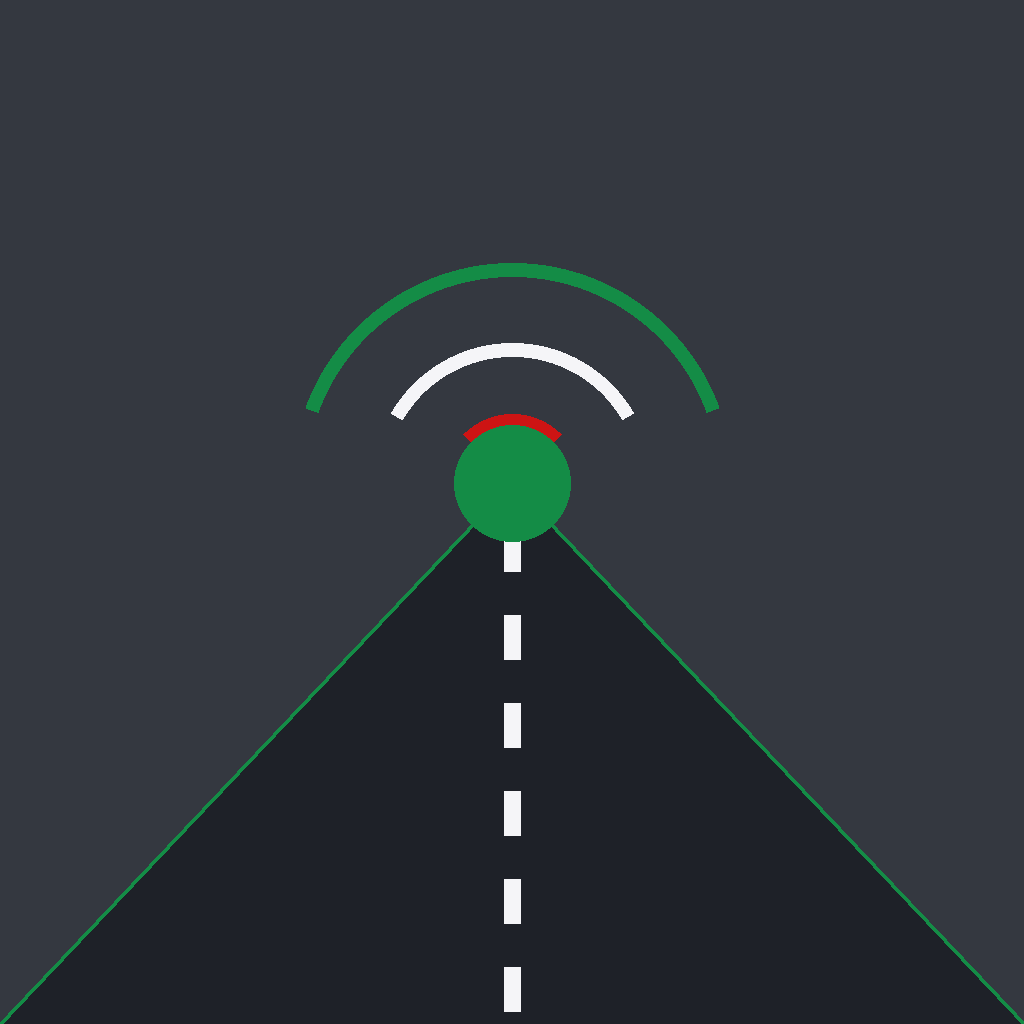
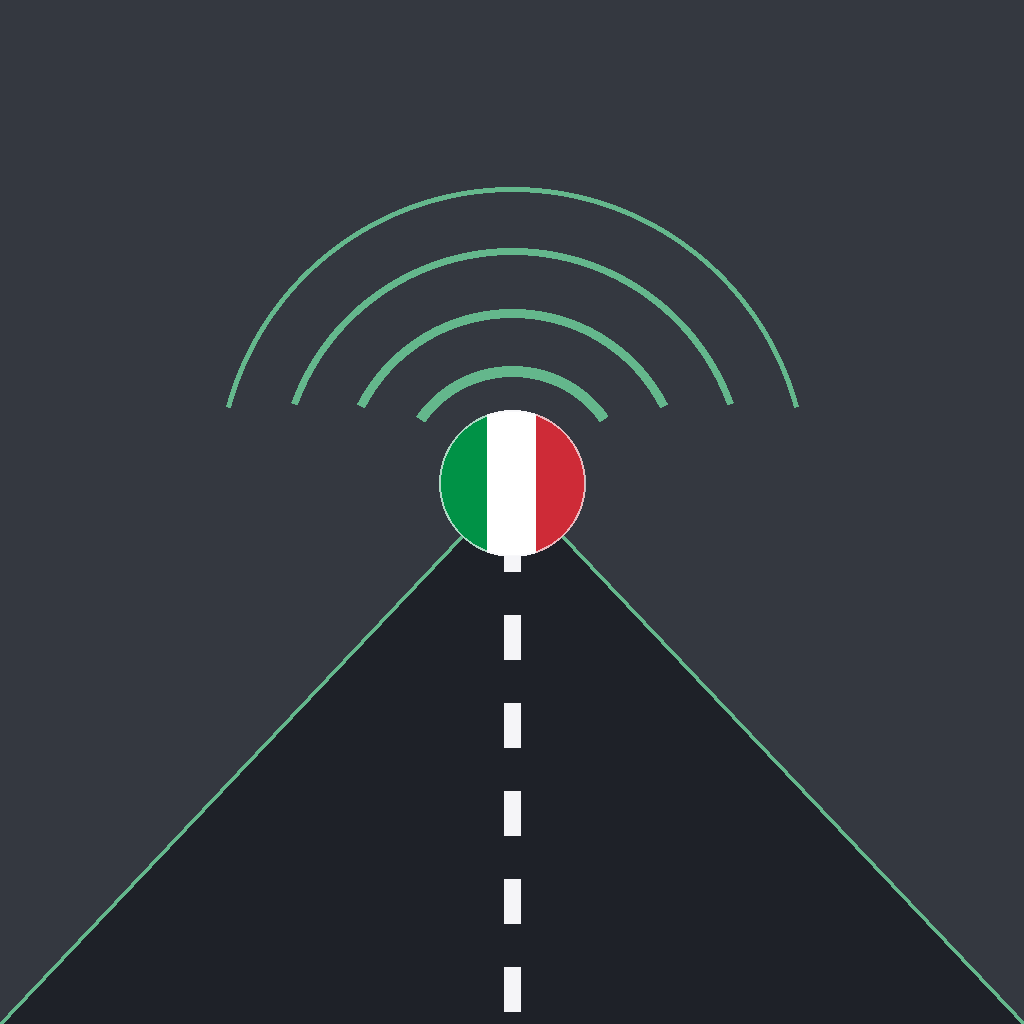
Nouvelle icône (drapeau + ondes désaturées), voix iOS : meilleure voix installée, paywall 1800 phrases, « traduis »
Avec seulement la langue, iOS prenait la voix compacte par défaut et
ignorait les voix Améliorées/Premium téléchargées dans Réglages : on liste
les voix installées et on désigne explicitement la meilleure.

Claude-Session: https://claude.ai/code/session_016o5ttJgVXCSVVzozRGagfj

diff --git a/www/js/app.js b/www/js/app.js
@@ -328,7 +328,7 @@ function buildIntroSegments(){
 
   let pathText;
   if(platform === 'ios'){
-    pathText = "Tu es sur iPhone. Voici le chemin : ouvre l'application Réglages. Va dans Accessibilité. Puis Contenu énoncé. Puis Voix. Puis Français. Et télécharge une voix marquée Améliorée, ou Premium, si elle est proposée. Une fois téléchargée, elle sera automatiquement utilisée ici, sans rien à faire de plus.";
+    pathText = "Tu es sur iPhone. Voici le chemin : ouvre l'application Réglages. Va dans Accessibilité. Puis Contenu énoncé. Puis Voix. Puis Français. Et télécharge une voix marquée Améliorée, ou Premium, si elle est proposée. Fais la même chose dans Italien, pour la voix italienne. Une fois téléchargées, ces voix seront automatiquement utilisées ici, sans rien à faire de plus.";
   } else if(platform === 'android'){
     pathText = "Tu es sur Android. Voici le chemin, qui peut varier légèrement selon la marque de ton téléphone : ouvre les Paramètres. Va dans Système, ou Paramètres généraux. Puis Langues et saisie. Puis Synthèse vocale, ou Text-to-speech. Choisis le moteur Google. Installe les données vocales en français. Et choisis, si elle est proposée, une voix Réseau plutôt qu'une voix Compacte, pour un rendu plus naturel.";
   } else {
@@ -388,7 +388,7 @@ function buildEvalSegments(mi, anchor, isFinal, evalLabel){
   chosen.forEach((p,i)=>{
     const repeatMs = Math.max(2200, p.it.length*80) + 3000; // même formule que le Test 2
     const ex = {idx:i, total: chosen.length};
-    segs.push(S(p.fr, 'fr', 1, `${evalLabel} — traduce en italien`, CTX, 'headphones', false, p.fr, '···', ex));
+    segs.push(S(p.fr, 'fr', 1, `${evalLabel} — traduis en italien`, CTX, 'headphones', false, p.fr, '···', ex));
     segs.push(W(repeatMs, `${evalLabel} — à toi de répondre`, SPK, 'repeat', true, p.fr, '···', ex));
     segs.push(S(p.it, 'it', 0.85, `${evalLabel} — réponse`, TGT, 'speaker', false, p.fr, p.it, ex));
     segs.push(W(400 + 2000, `${evalLabel} — réponse`, TGT, 'speaker', false, p.fr, p.it, ex)); // même écart que le Test 2 (+2s)
@@ -447,7 +447,7 @@ function buildLessonSegments(mi, li){
   shuffled.forEach((p,i)=>{
     const repeatMs = Math.max(2200, p.it.length*80) + 3000;
     const ex = {idx:i, total: shuffled.length};
-    segs.push(S(p.fr, 'fr', 1, 'Test 1 — traduce en italien', CTX, 'headphones', false, p.fr, '···', ex));
+    segs.push(S(p.fr, 'fr', 1, 'Test 1 — traduis en italien', CTX, 'headphones', false, p.fr, '···', ex));
     segs.push(W(repeatMs, 'Test 1 — à toi de répondre', SPK, 'repeat', true, p.fr, '···', ex));
     segs.push(S(p.it, 'it', 0.85, 'Test 1 — réponse', TGT, 'speaker', false, p.fr, p.it, ex));
     segs.push(W(400 + 3000, 'Test 1 — réponse', TGT, 'speaker', false, p.fr, p.it, ex));
@@ -461,7 +461,7 @@ function buildLessonSegments(mi, li){
   lesson.phrases.forEach((p,i)=>{
     const repeatMs = Math.max(2200, p.it.length*80) + 3000;
     const ex = {idx:i, total: lesson.phrases.length};
-    segs.push(S(p.fr, 'fr', 1, 'Test 2 — traduce en italien', CTX, 'headphones', false, p.fr, '···', ex));
+    segs.push(S(p.fr, 'fr', 1, 'Test 2 — traduis en italien', CTX, 'headphones', false, p.fr, '···', ex));
     segs.push(W(repeatMs, 'Test 2 — à toi de répondre', SPK, 'repeat', true, p.fr, '···', ex));
     segs.push(S(p.it, 'it', 0.85, 'Test 2 — réponse', TGT, 'speaker', false, p.fr, p.it, ex));
     segs.push(W(400 + 2000, 'Test 2 — réponse', TGT, 'speaker', false, p.fr, p.it, ex));
@@ -575,6 +575,45 @@ function hasWebSpeech(){
 function getTTSPlugin(){
   return (window.Capacitor && window.Capacitor.Plugins && window.Capacitor.Plugins.TextToSpeech) || null;
 }
+/* ---------- choix explicite de la meilleure voix iOS/Android ----------
+   Quand on ne passe que la langue au plugin, iOS utilise la voix par défaut
+   de base (compacte, robotique) et IGNORE la voix téléchargée dans Réglages >
+   Accessibilité > Contenu énoncé. On liste donc les voix installées et on
+   désigne nous-mêmes la meilleure : Premium > Améliorée > standard (jamais
+   les voix "fantaisie"). Liste relue au retour au premier plan, pour qu'une
+   voix téléchargée entre-temps soit prise en compte sans relancer l'app. */
+let nativeVoiceIdx = {};
+let nativeVoicesLoaded = false;
+function nativeVoiceScore(v){
+  const id = ((v.voiceURI||'') + ' ' + (v.name||'')).toLowerCase();
+  if(id.includes('eloquence') || id.includes('speech.synthesis.voice') || id.includes('novelty')) return -100;
+  let s = 0;
+  if(id.includes('premium')) s += 30;
+  else if(id.includes('enhanced') || id.includes('amélior') || id.includes('network') || id.includes('réseau')) s += 20;
+  if(id.includes('compact')) s -= 5;
+  return s;
+}
+function bestNativeVoice(list, exact, prefix){
+  const norm = v=>(v.lang||'').toLowerCase().replace('_','-');
+  const all = list.map((v,i)=>({v,i}));
+  let c = all.filter(o=>norm(o.v) === exact);
+  if(!c.length) c = all.filter(o=>norm(o.v).startsWith(prefix));
+  if(!c.length) return -1;
+  c.sort((a,b)=>nativeVoiceScore(b.v) - nativeVoiceScore(a.v));
+  return nativeVoiceScore(c[0].v) < -50 ? -1 : c[0].i;
+}
+async function loadNativeVoices(){
+  if(nativeVoicesLoaded) return;
+  nativeVoicesLoaded = true;
+  const tts = getTTSPlugin();
+  if(!tts || !tts.getSupportedVoices) return;
+  try{
+    const r = await tts.getSupportedVoices();
+    const list = (r && r.voices) || [];
+    nativeVoiceIdx = { fr: bestNativeVoice(list, 'fr-fr', 'fr'), tgt: bestNativeVoice(list, 'it-it', 'it') };
+  }catch(e){ nativeVoiceIdx = {}; }
+}
+document.addEventListener('visibilitychange', ()=>{ if(!document.hidden) nativeVoicesLoaded = false; });
 async function cancelSpeech(){
   if(isNativeApp()){
     const tts = getTTSPlugin();
@@ -607,8 +646,12 @@ function speakSeg(seg, token){
     if(isNativeApp()){
       const tts = getTTSPlugin();
       if(!tts){ resolve(); return; }
+      await loadNativeVoices();
+      const opts = { text: seg.text, lang, rate: seg.rate || 1, category: 'ambient' };
+      const vi = nativeVoiceIdx[seg.lang === 'fr' ? 'fr' : 'tgt'];
+      if(typeof vi === 'number' && vi >= 0) opts.voice = vi;
       try{
-        await tts.speak({ text: seg.text, lang, rate: seg.rate || 1, category: 'ambient' });
+        await tts.speak(opts);
       }catch(e){ /* on continue malgré une éventuelle erreur du plugin */ }
       resolve();
       return;

diff --git a/www/index.html b/www/index.html
@@ -95,7 +95,7 @@
   <div id="paywall">
     <div class="paywall-inner">
       <div class="paywall-icon">🔓</div>
-      <div class="paywall-title">Débloque les 600 phrases</div>
+      <div class="paywall-title">Débloque les 1800 phrases</div>
       <div class="paywall-sub">Les premières leçons de chaque niveau sont gratuites (10 pour le niveau 1, 3 pour les suivants). Passe en version complète pour débloquer tous les modules et tous les niveaux disponibles.</div>
       <button class="end-btn primary" id="buyBtn" style="width:100%;padding:16px;font-size:16px;">Débloquer — 9,99&nbsp;€</button>
       <button class="restore-link" id="restoreBtn">Restaurer mes achats</button>
